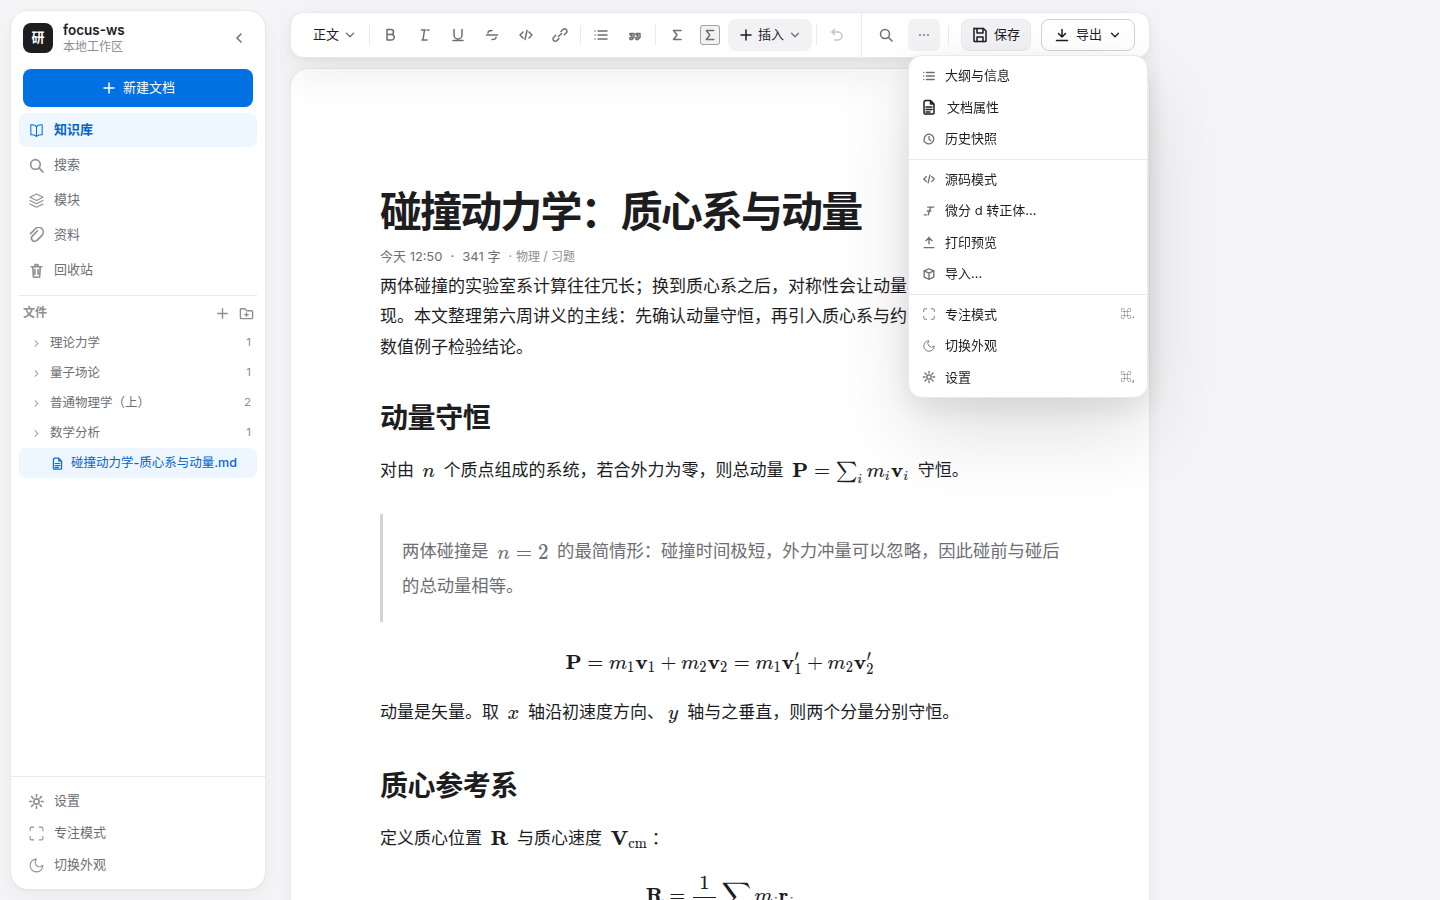
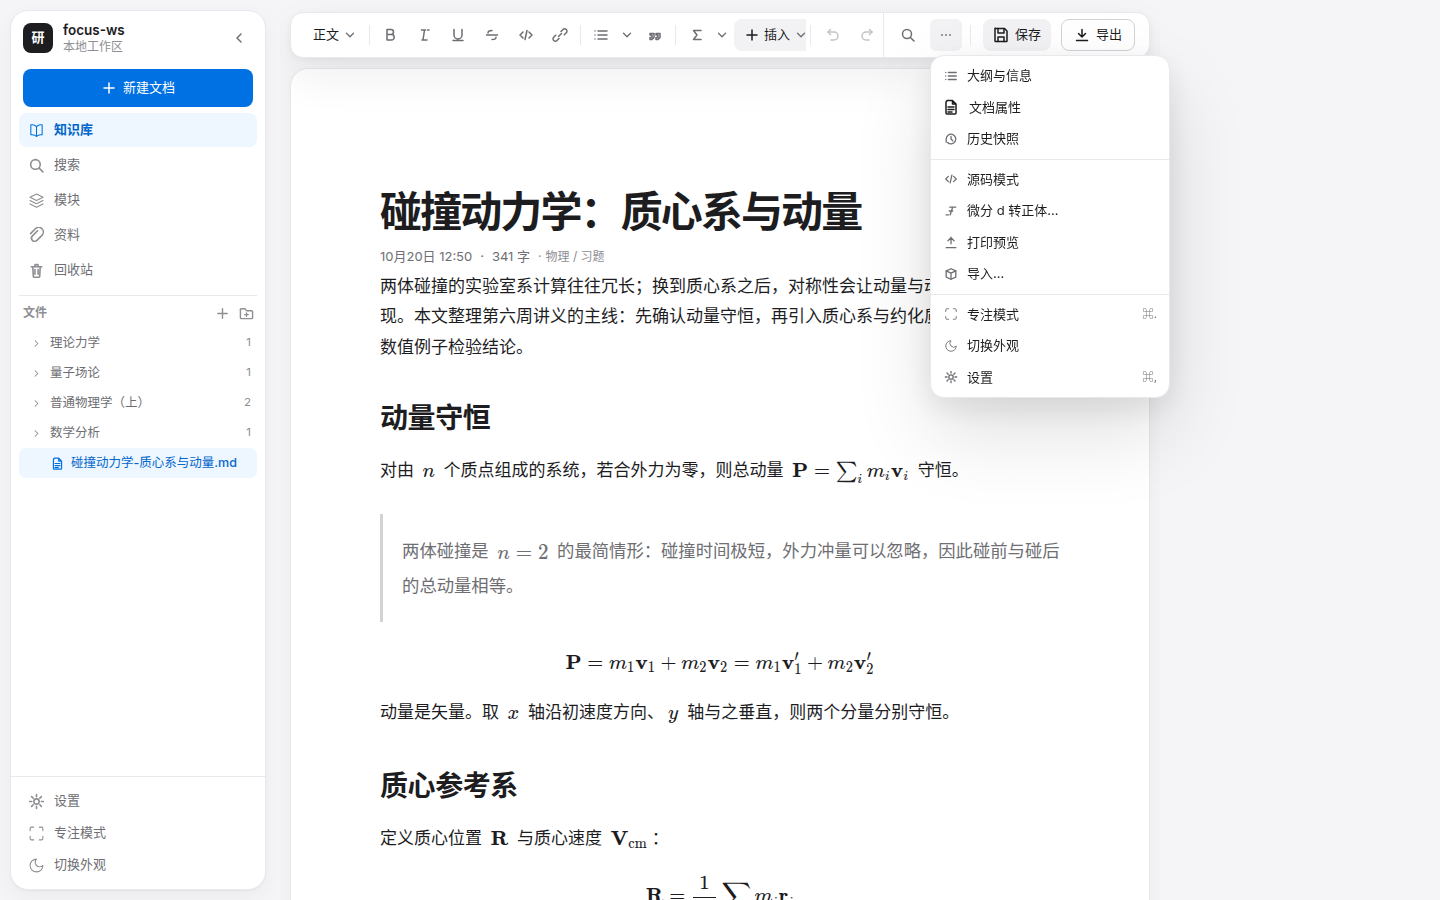
fix(focus-ui): 命令条与参考前端逐项对齐——撤销/重做右侧固定、列表/公式改 tb-split、移除命令条「已保存」chip、导出去掉 chevron、保存改 btn-secondary；刷新验收证据

diff --git a/frontend/src/components/editor/EditorToolbar.tsx b/frontend/src/components/editor/EditorToolbar.tsx
@@ -375,7 +375,6 @@ export interface EditorToolbarProps {
 }
 
 export default function EditorToolbar({
-  saveLabel,
   onOpenHistory,
   exportButton,
   onSave,
@@ -418,6 +417,7 @@ export default function EditorToolbar({
 
   const [headingOpen, setHeadingOpen] = useState(false)
   const [listOpen, setListOpen] = useState(false)
+  const [formulaOpen, setFormulaOpen] = useState(false)
   const [tableOpen, setTableOpen] = useState(false)
   const [insertOpen, setInsertOpen] = useState(false)
   const [moreOpen, setMoreOpen] = useState(false)
@@ -464,6 +464,22 @@ export default function EditorToolbar({
       editor.chain().focus().clearNodes().run()
     }
     setListOpen(false)
+  }
+
+  /** 插入行内/块级公式（v1.1.7：有选区不吞文本，折叠到末尾；插入后按 id 派发全屏编辑） */
+  const insertMathNode = (type: 'math' | 'mathBlock') => {
+    const id = newId()
+    editor
+      .chain()
+      .focus()
+      .command(({ tr }) => {
+        if (!tr.selection.empty) tr.setSelection(TextSelection.create(tr.doc, tr.selection.to))
+        return true
+      })
+      .insertContent({ type, attrs: { id, latex: '' } })
+      .run()
+    openMathEditorById(editor, id)
+    setFormulaOpen(false)
   }
 
   const onPickFile = async (e: ChangeEvent<HTMLInputElement>) => {
@@ -625,76 +641,63 @@ export default function EditorToolbar({
 
       <span className="mx-0.5 h-5 w-px shrink-0 bg-border" />
 
-      {/* 列表下拉（无序/有序/取消） */}
-      <Dropdown
-        open={listOpen}
-        onClose={() => setListOpen(false)}
-        trigger={
-          <button
-            type="button"
-            title="列表类型"
-            onClick={() => setListOpen((v) => !v)}
-            className={[
-              'grid h-8 w-8 shrink-0 place-items-center rounded-[6px] transition-[background-color,color,transform] duration-150',
-              st.bulletList || st.orderedList ? 'text-primary' : 'text-muted-foreground',
-              'hover:bg-muted hover:text-foreground active:scale-[0.97] focus-visible:outline-none motion-reduce:transition-none',
-            ].join(' ')}
-          >
-            <Icon name="list" className="size-4" />
-          </button>
-        }
-      >
-        <MenuItem active={st.bulletList} onClick={() => applyList('bullet')}>无序列表</MenuItem>
-        <MenuItem active={st.orderedList} onClick={() => applyList('ordered')}>有序列表</MenuItem>
-        <MenuItem active={!st.bulletList && !st.orderedList} onClick={() => applyList('none')}>无（清除格式）</MenuItem>
-      </Dropdown>
+      {/* 列表（参考稿 tb-split：主按钮=无序列表切换，▾ 菜单=无序/有序/清除） */}
+      <span className="inline-flex shrink-0 items-center">
+        <ToolIcon title="无序列表" active={st.bulletList} onClick={() => editor.chain().focus().toggleBulletList().run()}>
+          <Icon name="list" className="size-4" />
+        </ToolIcon>
+        <Dropdown
+          open={listOpen}
+          onClose={() => setListOpen(false)}
+          panelMinWidth={200}
+          trigger={
+            <button
+              type="button"
+              title="列表类型"
+              aria-label="列表类型"
+              onClick={() => setListOpen((v) => !v)}
+              className="grid h-8 w-5 shrink-0 place-items-center rounded-[6px] text-muted-foreground transition-[background-color,color] duration-150 hover:bg-muted hover:text-foreground focus-visible:outline-none motion-reduce:transition-none"
+            >
+              <Icon name="chevron-down" className="size-3.5" />
+            </button>
+          }
+        >
+          <MenuItem active={st.bulletList} onClick={() => applyList('bullet')}>无序列表</MenuItem>
+          <MenuItem active={st.orderedList} onClick={() => applyList('ordered')}>有序列表</MenuItem>
+          <MenuItem active={!st.bulletList && !st.orderedList} onClick={() => applyList('none')}>无（清除格式）</MenuItem>
+        </Dropdown>
+      </span>
       <ToolIcon title="引用" active={st.blockquote} onClick={() => editor.chain().focus().toggleBlockquote().run()}>
         <Icon name="quote" className="size-4" />
       </ToolIcon>
 
       <span className="mx-0.5 h-5 w-px shrink-0 bg-border" />
 
-      <ToolIcon title="插入公式" onClick={() => {
-        // v1.1.7：有选区不吞文本（折叠到末尾）+ 插入后按 id 派发全屏编辑
-        const id = newId()
-        editor
-          .chain()
-          .focus()
-          .command(({ tr }) => {
-            if (!tr.selection.empty) tr.setSelection(TextSelection.create(tr.doc, tr.selection.to))
-            return true
-          })
-          .insertContent({ type: 'math', attrs: { id, latex: '' } })
-          .run()
-        openMathEditorById(editor, id)
-      }}>
-        <Icon name="sigma" className="size-4" />
-      </ToolIcon>
-      <ToolIcon title="插入块级公式" onClick={() => {
-        const id = newId()
-        editor
-          .chain()
-          .focus()
-          .command(({ tr }) => {
-            if (!tr.selection.empty) tr.setSelection(TextSelection.create(tr.doc, tr.selection.to))
-            return true
-          })
-          .insertContent({ type: 'mathBlock', attrs: { id, latex: '' } })
-          .run()
-        openMathEditorById(editor, id)
-      }}>
-        {/* v1.1.6 二3：块级公式 = Σ 外框（背景边框放大版，与行内公式区分） */}
-        <span
-          className="inline-grid h-5 w-5 place-items-center rounded-[3px] border border-current/60"
-          style={{ background: 'color-mix(in srgb, var(--foreground) 6%, transparent)' }}
+      {/* 公式（参考稿 tb-split：主按钮=行内公式，▾ 菜单=行内/块级） */}
+      <span className="inline-flex shrink-0 items-center">
+        <ToolIcon title="插入公式" onClick={() => insertMathNode('math')}>
+          <Icon name="sigma" className="size-4" />
+        </ToolIcon>
+        <Dropdown
+          open={formulaOpen}
+          onClose={() => setFormulaOpen(false)}
+          panelMinWidth={210}
+          trigger={
+            <button
+              type="button"
+              title="公式类型"
+              aria-label="公式类型"
+              onClick={() => setFormulaOpen((v) => !v)}
+              className="grid h-8 w-5 shrink-0 place-items-center rounded-[6px] text-muted-foreground transition-[background-color,color] duration-150 hover:bg-muted hover:text-foreground focus-visible:outline-none motion-reduce:transition-none"
+            >
+              <Icon name="chevron-down" className="size-3.5" />
+            </button>
+          }
         >
-          {/* 与行内公式同规格（size-4），正方形外框、grid 严格居中 */}
-          {/* Σ 路径墨迹中心略偏右（viewBox 内 ≈1.2px），补偿平移保持视觉正中 */}
-          <span className="block" style={{ transform: 'translateX(-1.2px)' }}>
-            <Icon name="sigma" className="size-4 leading-none" />
-          </span>
-        </span>
-      </ToolIcon>
+          <MenuItem icon={<Icon name="sigma" className="size-3.5" />} onClick={() => insertMathNode('math')}>行内公式</MenuItem>
+          <MenuItem icon={<Icon name="formula" className="size-3.5" />} onClick={() => insertMathNode('mathBlock')}>块级公式</MenuItem>
+        </Dropdown>
+      </span>
 
       {/* 插入 ▾（Focus §2.4：代码块/图片附件/脚注/信息块/表格/模块收进插入菜单，命令条保持克制；
          原独立「模块▾」已并入此处，模块列表在菜单打开时懒加载） */}
@@ -791,17 +794,23 @@ export default function EditorToolbar({
         )}
       </Dropdown>
 
-      <span className="mx-0.5 h-5 w-px shrink-0 bg-border" />
-
-      <ToolIcon title="撤销" disabled={!st.canUndo} onClick={() => editor.chain().focus().undo().run()}>
-        <Icon name="undo" className="size-4" />
-      </ToolIcon>
-      <ToolIcon title="重做" disabled={!st.canRedo} onClick={() => editor.chain().focus().redo().run()}>
-        <Icon name="redo" className="size-4" />
-      </ToolIcon>
-
       </fieldset>
       </div>
+
+      {/* Focus §2.4 / 参考稿 format-end：撤销/重做固定在最右（不随格式组横向滚动，窗口窄时也常驻） */}
+      <fieldset
+        disabled={viewMode === 'source'}
+        className="flex shrink-0 items-center gap-0.5"
+        aria-label="历史命令"
+      >
+        <span className="mx-1 h-5 w-px shrink-0 bg-border" />
+        <ToolIcon title="撤销" disabled={!st.canUndo} onClick={() => editor.chain().focus().undo().run()}>
+          <Icon name="undo" className="size-4" />
+        </ToolIcon>
+        <ToolIcon title="重做" disabled={!st.canRedo} onClick={() => editor.chain().focus().redo().run()}>
+          <Icon name="redo" className="size-4" />
+        </ToolIcon>
+      </fieldset>
 
       <input
         ref={fileRef}
@@ -987,15 +996,12 @@ export default function EditorToolbar({
             title="保存（Ctrl+S）"
             aria-label="保存"
             onClick={onSave}
-            className="ml-1 flex h-8 shrink-0 items-center gap-1.5 rounded-[8px] border px-2.5 text-[13px] font-medium text-foreground transition-[background-color,border-color] duration-150 hover:bg-surface-3 focus-visible:outline-none motion-reduce:transition-none"
-            style={{ borderColor: 'var(--border)', backgroundColor: 'var(--secondary)' }}
+            className="ml-1 flex h-8 shrink-0 items-center gap-1.5 rounded-[8px] px-2.5 text-[13px] font-medium text-foreground transition-[background-color] duration-150 hover:bg-surface-3 focus-visible:outline-none motion-reduce:transition-none"
+            style={{ backgroundColor: 'var(--secondary)' }}
           >
             <Icon name="save" className="size-4" />
             <span className="hidden min-[960px]:inline">保存</span>
           </button>
-        ) : null}
-        {saveLabel ? (
-          <span className="flex items-center gap-1 text-[12px] text-muted-foreground">{saveLabel}</span>
         ) : null}
         {exportButton}
       </div>

diff --git a/frontend/src/components/layout/EditorArea.tsx b/frontend/src/components/layout/EditorArea.tsx
@@ -1546,7 +1546,6 @@ export default function EditorArea({ article, loading, onNewArticle, onSaveState
       >
         <Icon name="download" className="size-4" />
         <span>{exporting ? '打包中…' : '导出'}</span>
-        <Icon name="chevron-down" className="size-3.5" />
       </button>
       {exportOpen ? (
         <>

diff --git a/docs/focus-ui/INTEGRATION.md b/docs/focus-ui/INTEGRATION.md
@@ -60,6 +60,7 @@ node docs/focus-ui/verify-ui.cjs
 - **独立验收**：qa-visual 两轮（`6c53695` §11、`472d861` §12）全 PASS；`fbc2461` 绿点修复由 Lead 自测并按同一脚本复验（16 图 178/178）。
 - **证据**：`docs/focus-ui/screenshots/`（01–16 + focus-ring）、`evidence/{metrics.json,summary.md,run-meta.json,a11y-probe.json,probe-round3/,probe-round4/}`。
 - **源码模式修复（2026-10-20，发布后用户实测）**：Focus 纸面为 auto 高度使 `SourceModeView` 的 `h-full` 链断裂，源码编辑框塌成 ~66px 一行；已加 `[data-testid='source-mode-view'] { min-height: max(360px, calc(100vh - 340px)); }`（1440×900 实测 textarea 66→498px，内部滚动正常），并在 `verify-ui.cjs` 增加源码模式回归段（1600×? 见下）：验收脚本扩展为 **17 图 / 184 断言全 PASS**。
+- **命令条与参考前端逐项对齐（2026-10-22）**：撤销/重做移到右侧固定组（不再随格式组滚走）、列表/公式改参考稿 `tb-split`（主按钮+▾菜单）、移除命令条内「已保存」chip、导出按钮去掉 chevron、保存按钮改 `btn-secondary` 浅底；分隔线按参考稿分组。验证 17 图 184 断言全 PASS。
 - **发布后用户实测修复（2026-10-20）**：①源码模式编辑框塌陷（`5cf1c47`）；②导出 PDF 卡顿（本提交）——根因是导出对话框打开即深克隆整篇正文 + DOM 回退预览按页渲染 N 份副本（长文档 4 万节点时主线程冻结 >30s）。已改为按需克隆 + 桌面生成期轻量占位 + 回退预览 8 页上限；实测对话框打开 567ms、生成期无副本爆炸。证据 `evidence/export-perf/measurements.json`。
 - **预发布（2026-10-20）**：已按发版流程在 Windows 侧打包并发布 **GitHub Pre-release** https://github.com/Asheep233/knowledge-editor/releases/tag/v1.3.0-pre.1
   （Pre-release，Latest 仍为 v1.2.18）。资产：`AstraNota_1.3.0-pre.1_x64-setup.exe`（51,129,095 B / sha256 `dbc8f0e9…21d7`）、

diff --git a/CHANGELOG_DEV.md b/CHANGELOG_DEV.md
@@ -4,6 +4,20 @@
 > 维护方式：按时间倒序（最新在上）或按版本顺序追加均可，保持每条记录字段完整。
 > 最后更新：2026-10-20（**v1.3.0-pre.1 预发布**：Focus UI 全面对齐，分支 `focus-ui` + tag `v1.3.0-pre.1`，未创建 Release）
 
+## 2026-10-22（命令条与参考前端逐项对齐 · 待下个 pre 打包）
+
+主理人反馈「pre.2 与参考前端的命令条不一致」。逐项对照参考实现（`AstraNota-Focus-Handoff/prototype/screens/editor.html` 的 `.format-bar`）后修正：
+
+- **撤销/重做**：从左侧可滚动格式组内**移到最右侧固定组**（`format-end`，不随窗口变窄滚走；源码态仍整组禁用）；
+- **列表**：改为参考稿的 `tb-split`——主按钮=无序列表切换，`▾` 下拉=无序/有序/清除；
+- **公式**：两个独立 Σ 按钮合并为 `tb-split`——主按钮=行内公式，`▾` 下拉=行内/块级；
+- **保存状态文字**：从命令条移除独立的「已保存」chip（参考稿无；保存态仍显示在专注模式顶栏）；
+- **导出按钮**：去掉 `▾` chevron（参考稿 `btn-outline` 无箭头，点击仍展开导出菜单）；
+- **保存按钮**：去掉边框，改为参考稿 `btn-secondary` 浅底样式；
+- 分隔线按参考稿分组（正文后 / 链接后 / 引用后 / 公式后 / 插入后 / 撤销重做前 / 保存前）。
+
+**验证**：tsc 0；全量 vitest 149 文件/2055 passed+1 skipped；视觉验收 17 图 184/184 PASS；命令条截图与参考稿逐项比对一致（`01-editor-light`/`02-collapsed` 等已刷新）。
+
 ## 2026-10-20（★ v1.3.0-pre.2 预发布：源码模式/导出 PDF 卡顿两个发布后实测问题修复）
 
 **Tag** `v1.3.0-pre.2`（预发布，非 Latest；正式版仍为 v1.2.18）

diff --git a/docs/focus-ui/evidence/summary.md b/docs/focus-ui/evidence/summary.md
@@ -1,9 +1,9 @@
 # Focus 视觉验收 · 运行摘要（verify-ui.cjs 自动生成）
 
-- 时间：2026-10-20T14:16:25.576Z（耗时 50.9s）
+- 时间：2026-10-22T00:37:16.161Z（耗时 70.6s）
 - 仓库：/mnt/f/Work/KE Project/knowledge-editor
-- git：focus-ui @ 5cf1c47（脏文件 1 个）
-- 前端：http://127.0.0.1:5273（脚本独立拉起 pid=286949）
+- git：focus-ui @ 6efbfe3（脏文件 2 个）
+- 前端：http://127.0.0.1:5273（脚本独立拉起 pid=1701）
 - 后端：http://127.0.0.1:8000（复用现有）
 - 截图：17 张 → /tmp/focus-shots/
 
